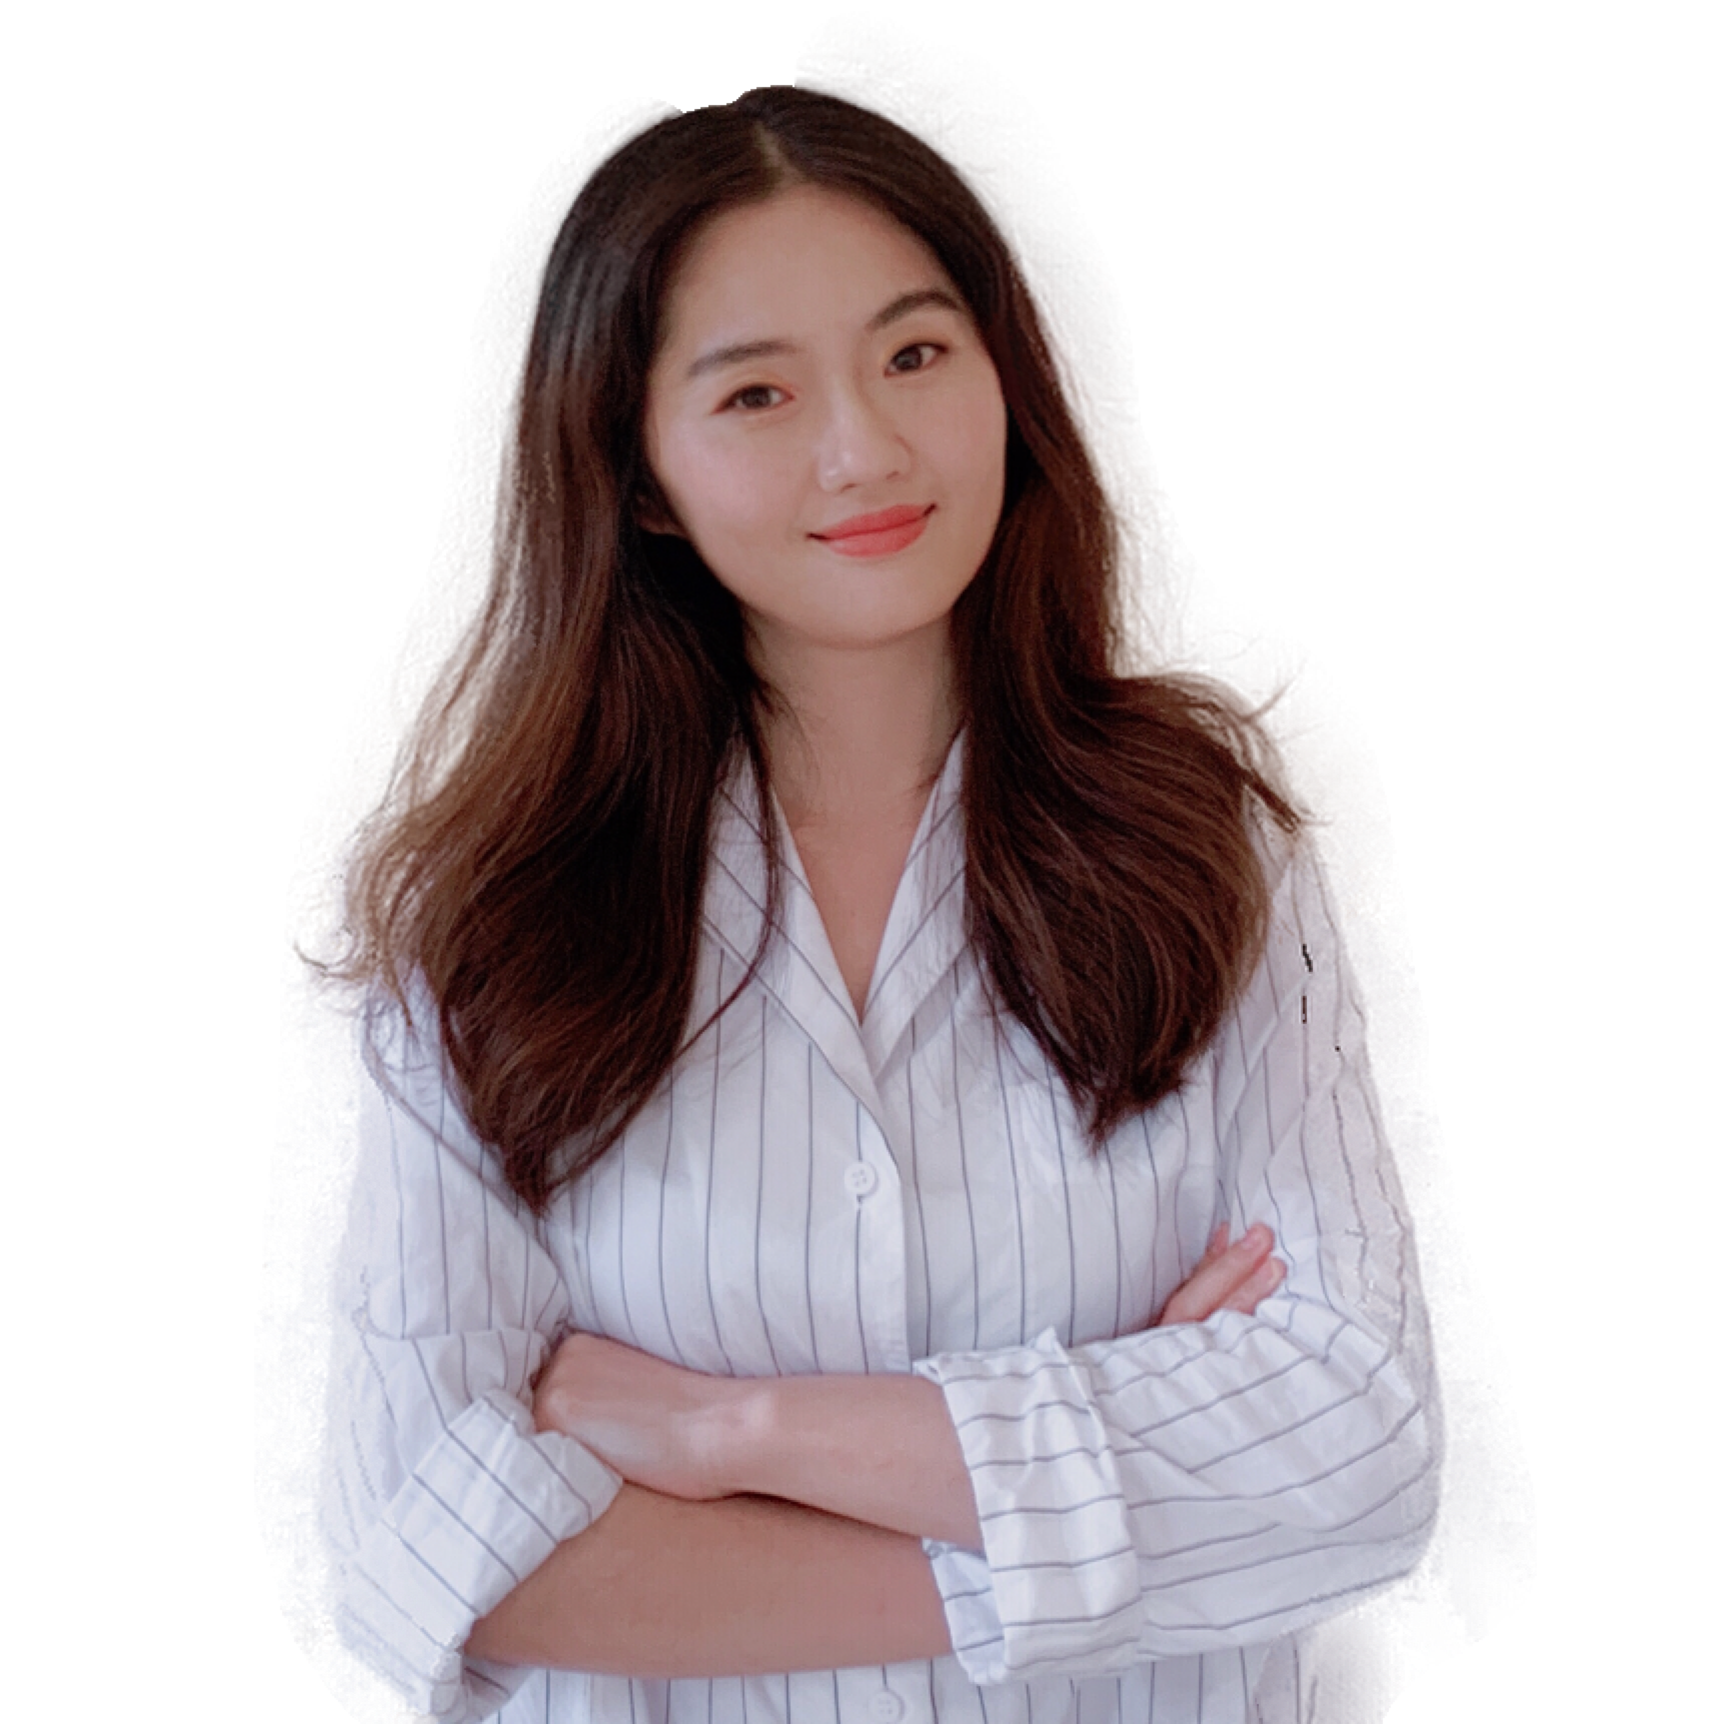
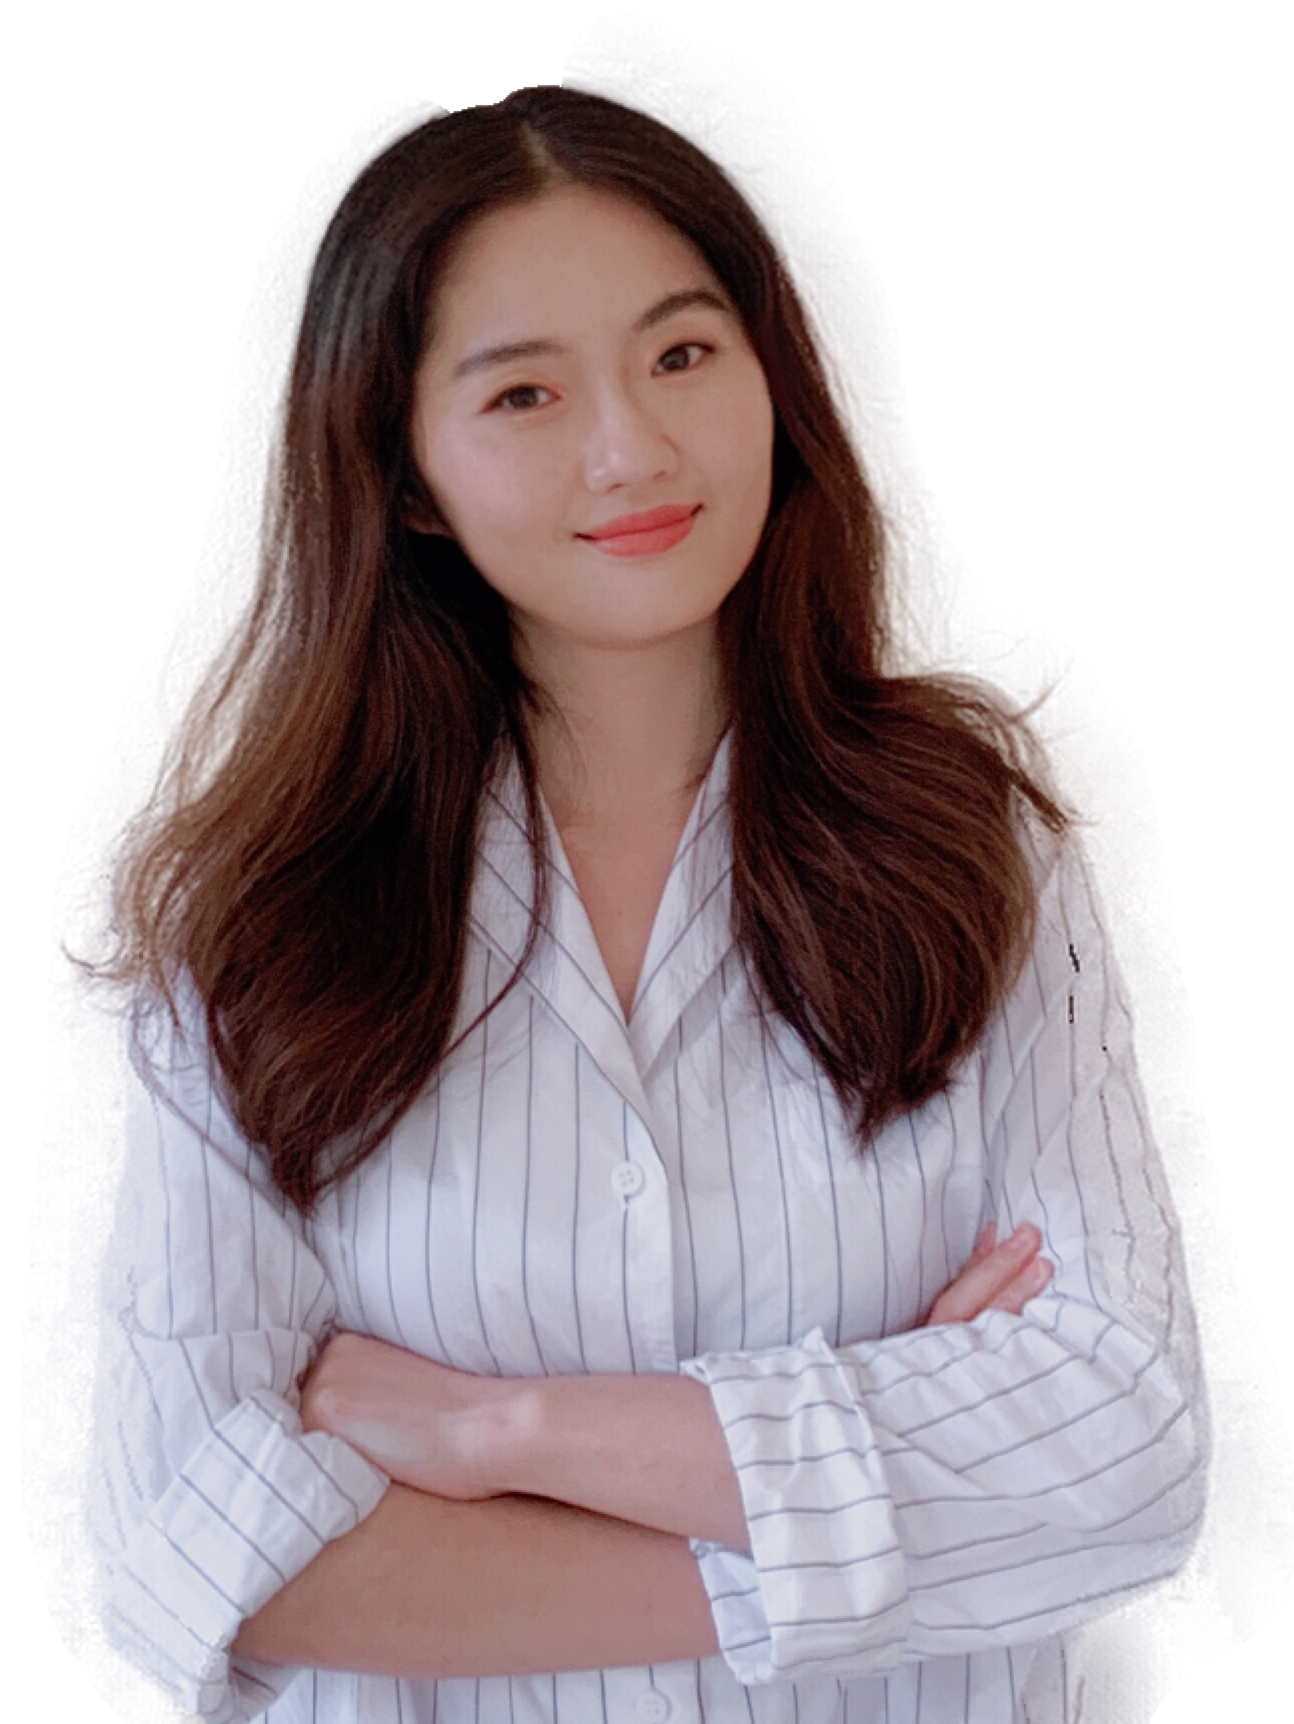
add SimplyBook.gif

diff --git a/index.html b/index.html
@@ -12,31 +12,32 @@
 </head>
 <body>
     <!-- Navigation Bar -->
-    <div class='navBar'>
+    <div class='navBar' id='navBar'>
         <div class='logo'>
             <img src="img/logo.png" alt="" class='logoImg'>
         </div>
         <ul class='navBarItems'>
-            <li class='navBarItem home'>HOME</li>
-            <li class='navBarItem about'>ABOUT</li>
-            <li class='navBarItem portfolio'>PORTFOLIO</li>
-            <li class='navBarItem contact'>CONTACT</li>
+            <li class='navBarItem' id='navBarItemHome'>HOME</li>
+            <li class='navBarItem' id='navBarItemAbout'>ABOUT</li>
+            <li class='navBarItem' id='navBarItemProject'>PROJECT</li>
+            <li class='navBarItem contact' id='navBarItemContact'>CONTACT</li>
         </ul>
     </div>
     <!-- Cover -->
     <div class='cover'>
+        <div class='coverImg'>
+            <img src="img/myself.png" alt="" class='img'>
+        </div>
         <div class='coverDisc'>
             <div class='coverDiscName'>
                 L<i class='coverDiscNameA'>A</i>URA ZH<i class='coverDiscNameB'>A</i>NG<br/>
                 <i class='coverDiscPosition'>A Front-end Developer</i>
             </div>
         </div>
-        <div class='coverImg'>
-            <img src="img/myself.png" alt="" class='img'>
-        </div>
+        
     </div>
     <!-- About -->
-    <div class='aboutWrapper'>
+    <div class='aboutWrapper' id='aboutMe'>
         <div class='aboutMeCircle'>
             <i class='placeholder'></i>
             ABOUT<br/> ME
@@ -63,7 +64,7 @@
         </div>
     </div>
     <!-- Project -->
-    <div class='projectWrapper'>
+    <div class='projectWrapper' id='project'>
         <div class='projectTitle'>
             M Y &nbsp;&nbsp;&nbsp;&nbsp;P R O J E C T
             <i class='iconfont'>&#xe722;</i>
@@ -72,7 +73,7 @@
         <div class='projectRocca'>
             <div class='projectRoccaImgContainer' id='projectRoccaImgContainer'>
                 <img src="img/Rocca.png" alt="" class='projectRoccaImg' id='projectRoccaImgSwitch'>
-                <div class='projectAddBackground iconfont' id='projectAddBackground'>&#xe64e;</div>
+                <div class='projectAddBackground iconfont' id='projectAddRoccaBackground'>&#xe64e;</div>
             </div>
             <div class='projectRoccaDisc'>
                 <div class='projectRoccaTitle'>Rocca Kitchen and Bar</div>
@@ -123,12 +124,12 @@
             </div>
             <div class='projectSimpleBookImgContainer' id='projectSimpleBookImgContainer'>
                 <img src="img/SimpleBook.png" alt="" class='projectSimpleBookImg' id='projectSimpleBookImgSwitch'>
-                <div class='projectAddBackground iconfont' id='projectAddBackground'>&#xe64e;</div>
+                <div class='projectAddBackground iconfont' id='projectAddSimpleBookBackground'>&#xe64e;</div>
             </div>
         </div>
     </div>
     <!-- Contact -->
-    <div class='contactWrapper'>
+    <div class='contactWrapper' id='contact'>
         <div class='contactInfoContainer'>
             <div onclick="window.open('https://www.linkedin.com/in/yanru-zhang/')" class='contactLink linkedIn'>
                 <i class='iconfont'>&#xe663;</i>

diff --git a/js/index.js b/js/index.js
@@ -1,29 +1,64 @@
 //Click to switch gif
+//Rocca
 let projectRoccaImgSwitch = document.getElementById('projectRoccaImgSwitch');
 let projectRoccaImgContainer = document.getElementById('projectRoccaImgContainer');
-let projectAddBackground = document.getElementById('projectAddBackground');
+let projectAddRoccaBackground = document.getElementById('projectAddRoccaBackground');
 
-projectRoccaImgContainer.onclick = function(){clickToSwitch(projectRoccaImgSwitch)};
+projectRoccaImgContainer.onclick = function(){clickToSwitch(projectRoccaImgSwitch, projectAddRoccaBackground)};
 
-function clickToSwitch(ele) {
-    let format = ele.src.slice(-3);
+//Simple Book
+let projectSimpleBookImgSwitch = document.getElementById('projectSimpleBookImgSwitch');
+let projectSimpleBookImgContainer = document.getElementById('projectSimpleBookImgContainer');
+let projectAddSimpleBookBackground = document.getElementById('projectAddSimpleBookBackground');
+
+projectSimpleBookImgContainer.onclick = function(){clickToSwitch(projectSimpleBookImgSwitch, projectAddSimpleBookBackground)};
+
+function clickToSwitch(ele1, ele2) {
+    let format = ele1.src.slice(-3);
     if (format == 'png') {
-        ele.src = ele.src.replace('png', 'gif');
-        projectAddBackground.innerHTML = '&#xe63b;';
+        ele1.src = ele1.src.replace('png', 'gif');
+        ele2.innerHTML = '&#xe63b;';
     }else {
-        ele.src = ele.src.replace('gif', 'png');
-        projectAddBackground.innerHTML = '&#xe64e;';
+        ele1.src = ele1.src.replace('gif', 'png');
+        ele2.innerHTML = '&#xe64e;';
     }
 }
 
-//Onmouseover to add background
+//Click to scroll
+//Home
+let navBarItemHome = document.getElementById('navBarItemHome');
+let navBarItemAbout = document.getElementById('navBarItemAbout');
+let navBarItemProject = document.getElementById('navBarItemProject');
+let navBarItemContact = document.getElementById('navBarItemContact');
+let navBar = document.getElementById('navBar');
+let aboutMe = document.getElementById('aboutMe');
+let project = document.getElementById('project');
+let contact = document.getElementById('contact');
 
-// projectRoccaImgContainer.onmouseover = function () {mouseOver(projectRoccaImgContainer)};
-// projectRoccaImgContainer.onmouseout = function () {mouseOut(projectRoccaImgContainer)};
+navBarItemHome.onclick = function(){clickToScroll(navBar, 0)};
 
-// function mouseOver(ele) {
-//     projectAddBackground.style.width = "100%";
-// }
-// function mouseOut(ele) {
-//     projectAddBackground.style.width = "100%";
-// }
+navBarItemAbout.onclick = function(){clickToScroll(aboutMe, 0)};
+
+navBarItemProject.onclick = function(){clickToScroll(project, 100)};
+
+navBarItemContact.onclick = function(){clickToScroll(contact, 0)};
+
+
+function getScrollTop(ele) {  
+    let actualTop = ele.offsetTop;
+    var current = ele.offsetParent;
+
+    while (current !== null){
+        actualTop += current.offsetTop;
+        current = current.offsetParent;
+    }
+    return actualTop;
+}
+
+function clickToScroll(ele, adjustment) {
+    window.scrollTo({
+        top: (getScrollTop(ele)-adjustment),
+        left: 0,
+        behavior: 'smooth'
+    });
+}

diff --git a/css/index.css b/css/index.css
@@ -3,7 +3,11 @@
     display: flex;
     display: -webkit-flex;
     color:#333;
-    height: 70px;
+    width: 100%;
+    height: 80px;
+    position: fixed;
+    background-color: #ffffff;
+    z-index: 1000;
 }
 .logo {
     flex: 1;
@@ -27,10 +31,29 @@
     color: #333333bd;
 }
 .navBarItem {
-    height: 100px;
+    height: 80px;
     font-size: 18px;
-    line-height: 100px;
-    padding-left: 60px;
+    line-height: 80px;
+    margin-left: 60px;
+    position: relative;
+    cursor: pointer;
+}
+.navBarItem::before {
+    content: "";
+    position: absolute;
+    z-index: -1;
+    left: 51%;
+    right: 51%;
+    bottom: 20px;
+    border-top: 2.5px dashed #c8aa50;
+    transition: all 0.2s ease-out;      
+    -webkit-transition: all 0.2s ease-out;      
+    -moz-transition: all 0.2s ease-out;      
+    -o-transition: all 0.2s ease-out;
+}
+.navBarItem:hover::before {
+    left: 0;
+    right: 0;
 }
 .navBarItem.contact {
     margin-right: 80px;
@@ -51,7 +74,7 @@
     font-weight: 700;
     line-height: 70px;
     color: 	#363636;
-    margin-left: 30%;
+    margin-left: 5%;
     margin-top: 35%;
     min-width: 400px;
 }
@@ -69,9 +92,14 @@
     flex: 1;
     -ms-flex: 1;
     -webkit-flex: 1;
+    z-index: 10000;
+    display: flex;
+    display: -webkit-flex;
+    justify-content: flex-end;
+    -webkit-justify-content: flex-end;
 }
 .coverImg .img {
-    width: 600px;
+    width: 450px;
     height: 600px;
 }
 @media (max-width: 1408px) {
@@ -137,7 +165,7 @@
     line-height: 30px;
     padding: 20px;
     color: #333;
-    margin-top: -5%;
+    margin-top: -3%;
     margin-left: 17%;
 }
 .aboutMeTitle {
